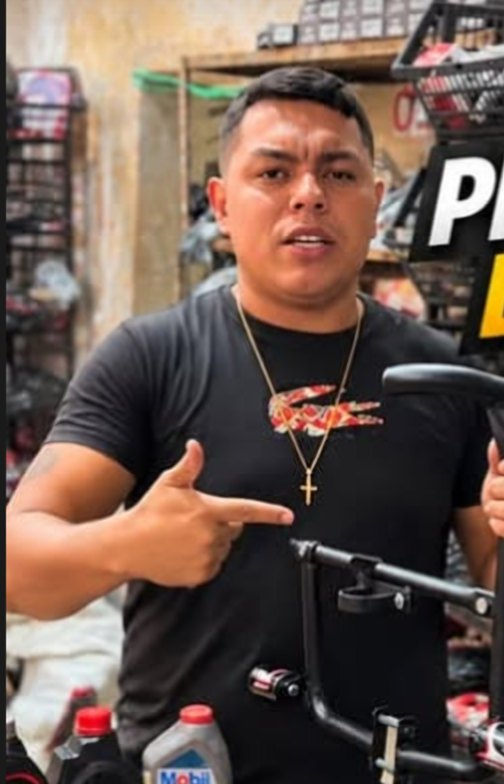
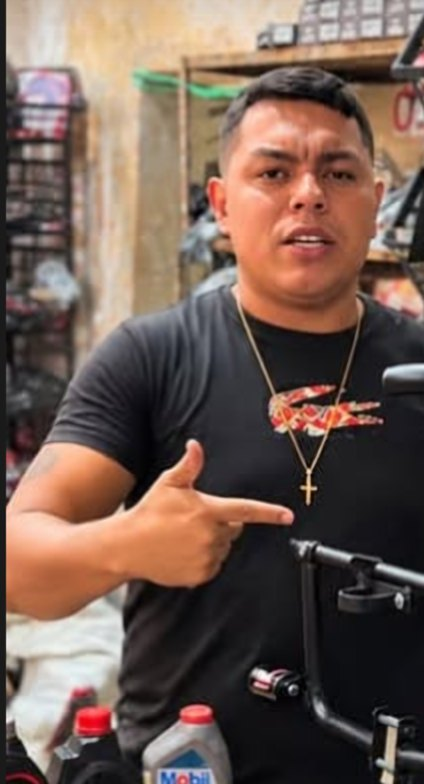
Matuto Motos: script de captura e composições de apresentação
Adiciona scripts/capturar.cjs (gera todos os PNGs com Playwright),
os modelos da capa, das telas mobile e do painel do lojista, e
refaz os recortes das fotos da loja sem textos das artes.

Claude-Session: https://claude.ai/code/session_01JWdUiM91EVC8pcNemr4DTy

diff --git a/propostas/matuto-motos/scripts/apresentacao/painel-lojista.html b/propostas/matuto-motos/scripts/apresentacao/painel-lojista.html
@@ -1,0 +1,46 @@
+<!doctype html>
+<html lang="pt-BR">
+<head>
+<meta charset="utf-8">
+<title>Painel do lojista — Proposta Matuto Motos</title>
+<link rel="stylesheet" href="../../prototipo/assets/css/base.css">
+<link rel="stylesheet" href="molduras.css">
+<style>
+  .palco { width: 2400px; height: 1350px; }
+  .topo { position: absolute; left: 90px; right: 90px; top: 60px; display: flex; align-items: center; gap: 22px; }
+  .topo .selo { width: 96px; }
+  .topo h1 { margin: 0; font-family: var(--f-titulo); font-weight: 800; font-style: italic; text-transform: uppercase; font-size: 60px; line-height: 1; }
+  .topo h1 em { color: #FCDD08; font-style: italic; }
+  .topo p { margin: 6px 0 0; font-size: 20px; color: rgba(255, 255, 255, .7); }
+  .topo .dir { margin-left: auto; text-align: right; font-size: 17px; color: rgba(255, 255, 255, .6); }
+  .par { position: absolute; top: 230px; width: 1080px; height: 880px; }
+  .par .rotulo-tela { position: absolute; left: 0; top: 0; }
+  .par .navegador { position: absolute; left: 0; top: 60px; width: 960px; }
+  .par .celular { position: absolute; left: 780px; top: 230px; width: 300px; border-radius: 48px; padding: 12px; }
+  .par .celular .tela { border-radius: 37px; }
+  .regras { position: absolute; left: 90px; right: 90px; bottom: 70px; display: flex; gap: 16px; }
+  .regras span { flex: 1; display: flex; align-items: center; gap: 12px; padding: 16px 18px; border-radius: 14px; background: rgba(255, 255, 255, .06); border: 1px solid rgba(255, 255, 255, .1); font-size: 18px; line-height: 1.35; color: rgba(255, 255, 255, .85); }
+  .regras svg { width: 28px; height: 28px; color: #FCDD08; flex: none; }
+  .listra { bottom: 0; }
+</style>
+</head>
+<body>
+<div class="palco">
+  <div class="topo"><div id="selo"></div><div><h1>Painel do lojista · <em>produtos e estoque</em></h1><p>O Matuto cadastra peças, acompanha os pedidos de retirada e controla o estoque, no computador ou no celular.</p></div><div class="dir">Proposta de loja virtual — Matuto Motos<br>[SEU NOME / EMPRESA] · novembro de 2026</div></div>
+  <div class="par" style="left:90px"><span class="rotulo-tela"><b>12</b>Cadastro de produto</span>
+    <div class="navegador"><div class="nav-barra"><span class="bolas"><i></i><i></i><i></i></span><span class="url">matutomotos.com.br/painel/produtos/PR-0401</span></div><img src="../../mockups/.dobras/desktop/12-admin-cadastro-produto.png" alt=""></div>
+    <div class="celular"><div class="tela"><div class="sb" style="--sb:#111;--sbt:#fff"><span>10:42</span><span class="sb-ic"><svg viewBox="0 0 18 12"><rect x="0" y="8" width="3" height="4" rx="1" fill="currentColor"/><rect x="5" y="5.5" width="3" height="6.5" rx="1" fill="currentColor"/><rect x="10" y="3" width="3" height="9" rx="1" fill="currentColor"/><rect x="15" y="0" width="3" height="12" rx="1" fill="currentColor"/></svg><svg viewBox="0 0 16 12"><path d="M8 11.5 10.2 9a3.2 3.2 0 0 0-4.4 0L8 11.5zM3.6 6.8l1.4 1.4a4.3 4.3 0 0 1 6 0l1.4-1.4a6.3 6.3 0 0 0-8.8 0zM.8 4l1.4 1.4a8.3 8.3 0 0 1 11.6 0L15.2 4A10.3 10.3 0 0 0 .8 4z" fill="currentColor"/></svg><svg viewBox="0 0 27 12"><rect x=".5" y=".5" width="23" height="11" rx="3" fill="none" stroke="currentColor" opacity=".45"/><rect x="2" y="2" width="17" height="8" rx="1.8" fill="currentColor"/><path d="M25 4v4a2 2 0 0 0 0-4z" fill="currentColor" opacity=".45"/></svg></span></div><img src="../../mockups/.dobras/mobile/12-admin-cadastro-produto.png" alt=""></div></div></div>
+  <div class="par" style="left:1230px"><span class="rotulo-tela"><b>13</b>Controle de estoque</span>
+    <div class="navegador"><div class="nav-barra"><span class="bolas"><i></i><i></i><i></i></span><span class="url">matutomotos.com.br/painel/estoque</span></div><img src="../../mockups/.dobras/desktop/13-admin-estoque.png" alt=""></div>
+    <div class="celular"><div class="tela"><div class="sb" style="--sb:#111;--sbt:#fff"><span>10:42</span><span class="sb-ic"><svg viewBox="0 0 18 12"><rect x="0" y="8" width="3" height="4" rx="1" fill="currentColor"/><rect x="5" y="5.5" width="3" height="6.5" rx="1" fill="currentColor"/><rect x="10" y="3" width="3" height="9" rx="1" fill="currentColor"/><rect x="15" y="0" width="3" height="12" rx="1" fill="currentColor"/></svg><svg viewBox="0 0 16 12"><path d="M8 11.5 10.2 9a3.2 3.2 0 0 0-4.4 0L8 11.5zM3.6 6.8l1.4 1.4a4.3 4.3 0 0 1 6 0l1.4-1.4a6.3 6.3 0 0 0-8.8 0zM.8 4l1.4 1.4a8.3 8.3 0 0 1 11.6 0L15.2 4A10.3 10.3 0 0 0 .8 4z" fill="currentColor"/></svg><svg viewBox="0 0 27 12"><rect x=".5" y=".5" width="23" height="11" rx="3" fill="none" stroke="currentColor" opacity=".45"/><rect x="2" y="2" width="17" height="8" rx="1.8" fill="currentColor"/><path d="M25 4v4a2 2 0 0 0 0-4z" fill="currentColor" opacity=".45"/></svg></span></div><img src="../../mockups/.dobras/mobile/13-admin-estoque.png" alt=""></div></div></div>
+  <div class="regras" id="regras"></div>
+  <div class="listra"></div>
+</div>
+<script src="../../prototipo/assets/js/icones.js"></script>
+<script>
+document.getElementById('selo').innerHTML = SELO();
+document.getElementById('regras').innerHTML = [['receipt', 'Pedido do site reserva o estoque na hora'], ['hand', 'A baixa acontece na retirada, no balcão'], ['refresh', 'Não retirou no prazo? A reserva é liberada'], ['alert', 'Abaixo do mínimo gera alerta · zerado vira “Avise-me”'], ['scan', 'Leitura do código de barras pela câmera do celular']]
+  .map((r) => '<span>' + ICON(r[0]) + r[1] + '</span>').join('');
+</script>
+</body>
+</html>

diff --git a/propostas/matuto-motos/scripts/apresentacao/capa.html b/propostas/matuto-motos/scripts/apresentacao/capa.html
@@ -1,0 +1,47 @@
+<!doctype html>
+<html lang="pt-BR">
+<head>
+<meta charset="utf-8">
+<title>Capa — Proposta Matuto Motos</title>
+<link rel="stylesheet" href="../../prototipo/assets/css/base.css">
+<link rel="stylesheet" href="molduras.css">
+<style>
+  .palco { width: 1920px; height: 1080px; }
+  .texto { position: absolute; left: 110px; top: 150px; width: 600px; display: flex; flex-direction: column; gap: 26px; }
+  .texto .selo { width: 210px; }
+  .kick { font-family: var(--f-titulo); font-weight: 700; letter-spacing: .18em; text-transform: uppercase; color: #FCDD08; font-size: 20px; display: flex; align-items: center; gap: 12px; }
+  .kick::before { content: ''; width: 34px; height: 5px; background: #FCDD08; transform: skewX(-20deg); }
+  h1 { margin: 0; font-family: var(--f-titulo); font-weight: 800; font-style: italic; text-transform: uppercase; font-size: 92px; line-height: .9; }
+  h1 em { color: #FCDD08; font-style: italic; display: block; }
+  .sub { font-size: 21px; line-height: 1.5; color: rgba(255, 255, 255, .78); max-width: 560px; }
+  .chips { display: flex; flex-wrap: wrap; gap: 10px; }
+  .chips span { display: inline-flex; align-items: center; gap: 8px; height: 40px; padding: 0 16px; border-radius: 999px; background: rgba(255, 255, 255, .08); border: 1px solid rgba(255, 255, 255, .12); font-size: 16px; font-weight: 600; }
+  .chips svg { width: 18px; height: 18px; color: #FCDD08; }
+  .assinatura { position: absolute; left: 110px; bottom: 74px; font-size: 17px; color: rgba(255, 255, 255, .62); display: flex; flex-direction: column; gap: 4px; }
+  .assinatura b { color: #fff; font-size: 20px; }
+  .nav-pos { position: absolute; left: 760px; top: 110px; width: 1060px; }
+  .cel-pos { position: absolute; left: 1560px; top: 270px; width: 318px; }
+  .listra { bottom: 0; }
+</style>
+</head>
+<body>
+<div class="palco">
+  <div class="texto">
+    <div id="selo"></div>
+    <span class="kick">Proposta de loja virtual</span>
+    <h1>Proposta de loja virtual — <em>Matuto Motos</em></h1>
+    <p class="sub">Loja online completa, com retirada no balcão em Recife: o cliente compra pelo site, a gente separa e avisa no WhatsApp. Cuida e acelera!</p>
+    <div class="chips" id="chips"></div>
+  </div>
+  <div class="assinatura"><span>Proposta preparada por</span><b>[SEU NOME / EMPRESA]</b><span>Novembro de 2026 · protótipo visual</span></div>
+  <div class="navegador nav-pos"><div class="nav-barra"><span class="bolas"><i></i><i></i><i></i></span><span class="url"><svg viewBox="0 0 24 24" fill="none" stroke="currentColor" stroke-width="2.4"><rect x="5" y="11" width="14" height="10" rx="2"/><path d="M8 11V7.5a4 4 0 0 1 8 0V11"/></svg>matutomotos.com.br</span></div><img src="../../mockups/.dobras/desktop/01-home.png" alt=""></div>
+  <div class="celular cel-pos"><div class="tela"><div class="sb"><span>10:42</span><span class="sb-ic"><svg viewBox="0 0 18 12"><rect x="0" y="8" width="3" height="4" rx="1" fill="currentColor"/><rect x="5" y="5.5" width="3" height="6.5" rx="1" fill="currentColor"/><rect x="10" y="3" width="3" height="9" rx="1" fill="currentColor"/><rect x="15" y="0" width="3" height="12" rx="1" fill="currentColor"/></svg><svg viewBox="0 0 16 12"><path d="M8 11.5 10.2 9a3.2 3.2 0 0 0-4.4 0L8 11.5zM3.6 6.8l1.4 1.4a4.3 4.3 0 0 1 6 0l1.4-1.4a6.3 6.3 0 0 0-8.8 0zM.8 4l1.4 1.4a8.3 8.3 0 0 1 11.6 0L15.2 4A10.3 10.3 0 0 0 .8 4z" fill="currentColor"/></svg><svg viewBox="0 0 27 12"><rect x=".5" y=".5" width="23" height="11" rx="3" fill="none" stroke="currentColor" opacity=".45"/><rect x="2" y="2" width="17" height="8" rx="1.8" fill="currentColor"/><path d="M25 4v4a2 2 0 0 0 0-4z" fill="currentColor" opacity=".45"/></svg></span></div><img src="../../mockups/.dobras/mobile/01-home.png" alt=""></div></div>
+  <div class="listra"></div>
+</div>
+<script src="../../prototipo/assets/js/icones.js"></script>
+<script>
+document.getElementById('selo').innerHTML = SELO();
+document.getElementById('chips').innerHTML = [['store', 'Retirada na loja'], ['whatsapp', 'Aviso no WhatsApp'], ['box', 'Painel com estoque'], ['moto', 'Peças para a minha moto']].map((c) => '<span>' + ICON(c[0]) + c[1] + '</span>').join('');
+</script>
+</body>
+</html>

diff --git a/propostas/matuto-motos/scripts/apresentacao/molduras.css b/propostas/matuto-motos/scripts/apresentacao/molduras.css
@@ -1,0 +1,33 @@
+/* Molduras de navegador e celular para as imagens de apresentação */
+html, body { margin: 0; }
+body { font-family: var(--f-texto); color: #fff; background: #0d0d0d; overflow: hidden; }
+.palco { position: relative; overflow: hidden; isolation: isolate; }
+.palco::before { content: ''; position: absolute; inset: 0; z-index: -2; background: radial-gradient(ellipse 60% 70% at 80% 30%, rgba(252, 221, 8, .14), transparent 70%), radial-gradient(ellipse 50% 60% at 10% 90%, rgba(255, 255, 255, .05), transparent 70%), #0d0d0d; }
+.palco::after { content: ''; position: absolute; inset: 0; z-index: -1; background: repeating-linear-gradient(115deg, rgba(255, 255, 255, .025) 0 2px, transparent 2px 22px); }
+.listra { position: absolute; left: 0; right: 0; height: 14px; background: repeating-linear-gradient(-45deg, #FCDD08 0 18px, #111 18px 36px); }
+
+.navegador { background: #fff; border-radius: 14px; overflow: hidden; box-shadow: 0 50px 100px -30px rgba(0, 0, 0, .85), 0 0 0 1px rgba(255, 255, 255, .08); }
+.nav-barra { height: 40px; background: #ECEAE5; display: flex; align-items: center; gap: 14px; padding: 0 16px; }
+.nav-barra .bolas { display: flex; gap: 7px; }
+.nav-barra .bolas i { width: 12px; height: 12px; border-radius: 50%; display: block; }
+.nav-barra .bolas i:nth-child(1) { background: #FF5F57; }
+.nav-barra .bolas i:nth-child(2) { background: #FEBC2E; }
+.nav-barra .bolas i:nth-child(3) { background: #28C840; }
+.nav-barra .url { flex: 1; max-width: 520px; margin: 0 auto; height: 26px; border-radius: 8px; background: #fff; color: #57544C; font-size: 13px; display: flex; align-items: center; justify-content: center; gap: 6px; }
+.nav-barra .url svg { width: 12px; height: 12px; }
+.navegador img { display: block; width: 100%; }
+
+.celular { position: relative; background: #111; border-radius: 54px; padding: 13px; box-shadow: 0 50px 90px -24px rgba(0, 0, 0, .9), inset 0 0 0 2px #3a3a3a, 0 0 0 1px rgba(255, 255, 255, .12); }
+.celular::before { content: ''; position: absolute; left: 50%; top: 24px; transform: translateX(-50%); width: 30%; height: 26px; border-radius: 14px; background: #000; z-index: 2; }
+.celular::after { content: ''; position: absolute; right: -4px; top: 22%; width: 4px; height: 80px; border-radius: 0 3px 3px 0; background: #2b2b2b; }
+.celular .tela { border-radius: 42px; overflow: hidden; background: #fff; position: relative; }
+.celular .tela img { display: block; width: 100%; }
+.celular .status { position: absolute; left: 0; right: 0; top: 0; height: 0; }
+
+.rotulo-tela { font-family: var(--f-titulo); font-weight: 800; text-transform: uppercase; letter-spacing: .04em; color: #fff; font-size: 26px; display: flex; align-items: center; gap: 10px; }
+.rotulo-tela b { color: #111; background: #FCDD08; border-radius: 6px; padding: 0 8px; font-size: 22px; }
+
+/* barra de status do celular (hora, sinal, bateria) */
+.sb { aspect-ratio: 390 / 46; background: var(--sb, #FCDD08); color: var(--sbt, #111); position: relative; display: flex; align-items: center; justify-content: space-between; padding: 0 8.5% 0 10%; font-family: var(--f-texto); font-weight: 650; font-size: 13.5px; letter-spacing: -.01em; }
+.sb .sb-ic { display: flex; align-items: center; gap: 5px; }
+.sb svg { height: 11px; width: auto; display: block; }

diff --git a/propostas/matuto-motos/scripts/apresentacao/telas-mobile.html b/propostas/matuto-motos/scripts/apresentacao/telas-mobile.html
@@ -1,0 +1,36 @@
+<!doctype html>
+<html lang="pt-BR">
+<head>
+<meta charset="utf-8">
+<title>Telas mobile — Proposta Matuto Motos</title>
+<link rel="stylesheet" href="../../prototipo/assets/css/base.css">
+<link rel="stylesheet" href="molduras.css">
+<style>
+  .palco { width: 2400px; height: 1160px; }
+  .topo { position: absolute; left: 90px; right: 90px; top: 60px; display: flex; align-items: center; gap: 22px; }
+  .topo .selo { width: 96px; }
+  .topo h1 { margin: 0; font-family: var(--f-titulo); font-weight: 800; font-style: italic; text-transform: uppercase; font-size: 60px; line-height: 1; }
+  .topo h1 em { color: #FCDD08; font-style: italic; }
+  .topo p { margin: 6px 0 0; font-size: 20px; color: rgba(255, 255, 255, .7); }
+  .topo .dir { margin-left: auto; text-align: right; font-size: 17px; color: rgba(255, 255, 255, .6); }
+  .fila { position: absolute; left: 90px; right: 90px; top: 210px; display: grid; grid-template-columns: repeat(6, 1fr); gap: 44px; }
+  .item { display: flex; flex-direction: column; gap: 22px; align-items: center; }
+  .item .celular { width: 330px; border-radius: 50px; padding: 12px; }
+  .item .celular .tela { border-radius: 39px; }
+  .listra { bottom: 0; }
+</style>
+</head>
+<body>
+<div class="palco">
+  <div class="topo"><div id="selo"></div><div><h1>Telas no celular · <em>primeira dobra</em></h1><p>Do banner ao código de retirada: a jornada completa do cliente pelo celular.</p></div><div class="dir">Proposta de loja virtual — Matuto Motos<br>[SEU NOME / EMPRESA] · novembro de 2026</div></div>
+  <div class="fila" id="fila"></div>
+  <div class="listra"></div>
+</div>
+<script src="../../prototipo/assets/js/icones.js"></script>
+<script>
+document.getElementById('selo').innerHTML = SELO();
+document.getElementById('fila').innerHTML = [['01', '01-home', 'Home'], ['02', '02-categoria', 'Categoria'], ['03', '03-produto', 'Produto'], ['04', '04-carrinho', 'Carrinho'], ['05', '05-checkout', 'Checkout'], ['06', '06-pedido-confirmado', 'Pedido confirmado']]
+  .map((t) => '<div class="item"><div class="celular"><div class="tela"><div class="sb"><span>10:42</span><span class="sb-ic"><svg viewBox="0 0 18 12"><rect x="0" y="8" width="3" height="4" rx="1" fill="currentColor"/><rect x="5" y="5.5" width="3" height="6.5" rx="1" fill="currentColor"/><rect x="10" y="3" width="3" height="9" rx="1" fill="currentColor"/><rect x="15" y="0" width="3" height="12" rx="1" fill="currentColor"/></svg><svg viewBox="0 0 16 12"><path d="M8 11.5 10.2 9a3.2 3.2 0 0 0-4.4 0L8 11.5zM3.6 6.8l1.4 1.4a4.3 4.3 0 0 1 6 0l1.4-1.4a6.3 6.3 0 0 0-8.8 0zM.8 4l1.4 1.4a8.3 8.3 0 0 1 11.6 0L15.2 4A10.3 10.3 0 0 0 .8 4z" fill="currentColor"/></svg><svg viewBox="0 0 27 12"><rect x=".5" y=".5" width="23" height="11" rx="3" fill="none" stroke="currentColor" opacity=".45"/><rect x="2" y="2" width="17" height="8" rx="1.8" fill="currentColor"/><path d="M25 4v4a2 2 0 0 0 0-4z" fill="currentColor" opacity=".45"/></svg></span></div><img src="../../mockups/.dobras/mobile/' + t[1] + '.png" alt=""></div></div><span class="rotulo-tela"><b>' + t[0] + '</b>' + t[2] + '</span></div>').join('');
+</script>
+</body>
+</html>
